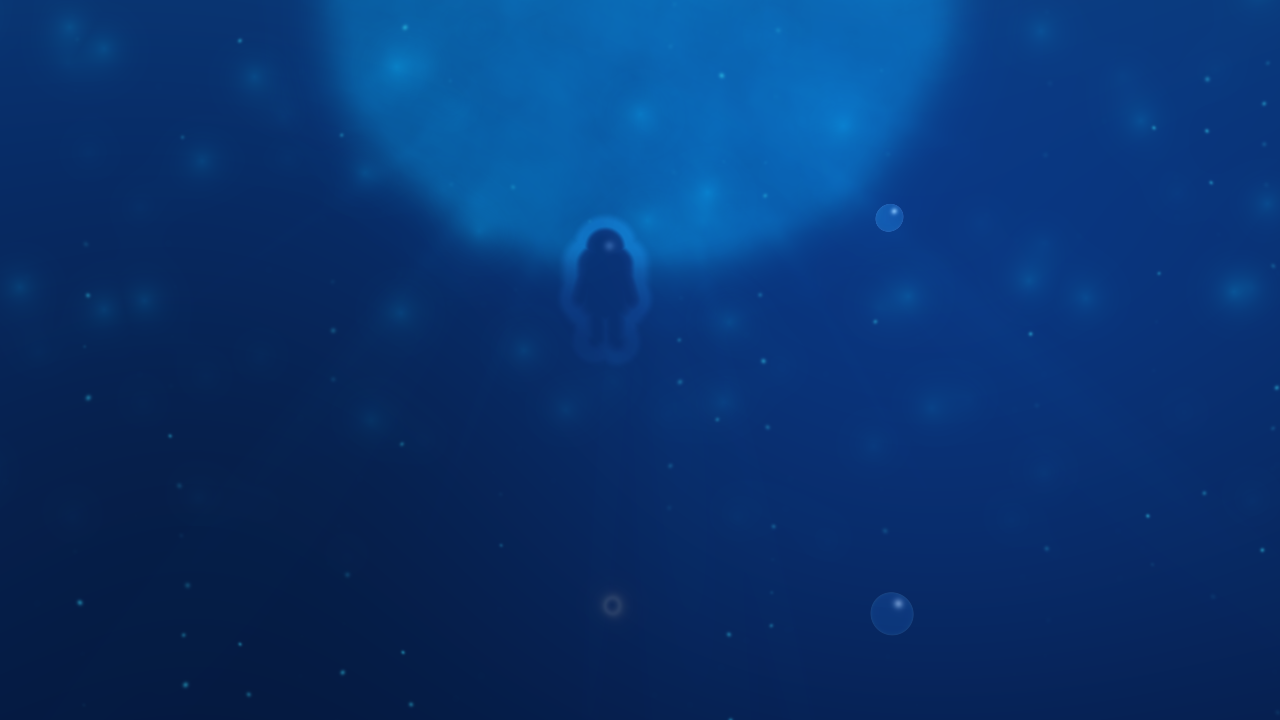
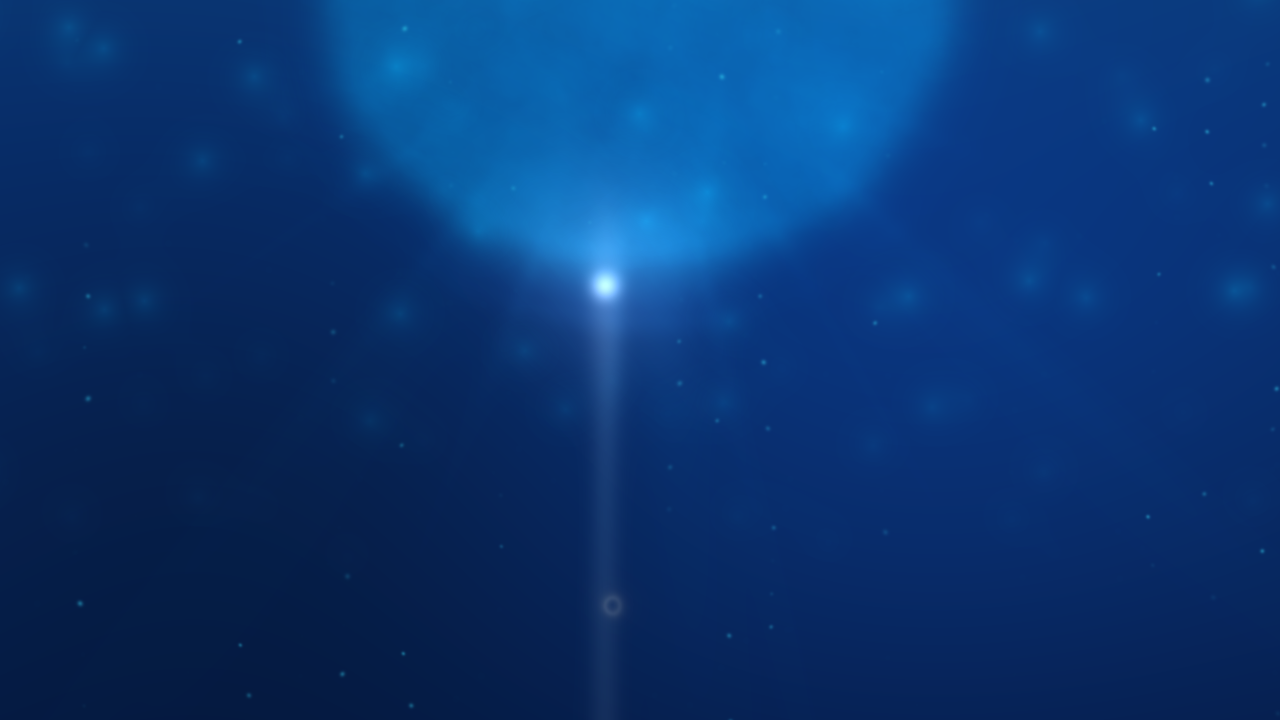
le-mystere-abyssal: diver as abstract falling light; bubbles by music moment
The diver (Louis 2026-06-15: a figure will never look right — keep her
abstract, the main point of attention):
- light-shaft: the scaphandrier SDF is gone. She is now a luminous
  warm-white falling spark — intense core, soft halo, a wake rising to
  where she came from, flickering as her trace is lost (95-99s). Warm-
  white foreshadows the sun she will 'find under the water'. The radio
  thread meets the spark. It is the brightest thing in the descent.

The bubbles, now drawn in the lab's winning vocabularies, chosen so each
LANDS with its moment:
- pointillist fizz (#12) — the literal rising bubbles 'qui rejoignaient
  la surface': white vocal-stem sparks, coloured only by hope; keeps
  vents + breath plume. Used in descent / reversal / remembrance / outro.
- soap-film iridescence (#2) — the B3 narcosis dream: vibrant parallax
  pearls, per-bubble film character, light-following glint, the sun
  bending through them (keeps the u_below coupling edge).
- merging metaballs (#7) — the C3 sun bloom: vibrant blobs wheeling the
  sun, colours fusing where they merge (Ocean Gravity).
Section-boundary vocabulary switches double as prediction-probe variety.

Changed region(s): [[0.4062, 0.2444, 0.5625, 0.5806], [0.6562, 0.825, 0.7188, 0.8861], [0.6875, 0.275, 0.7188, 0.3361]]

diff --git a/brainstorming/pieces/le-mystere-abyssal.md b/brainstorming/pieces/le-mystere-abyssal.md
@@ -80,10 +80,12 @@ Palette anchors (lit, not printed; Reinhard at composite):
 2. **caustics-veil** (screen) — voronoi-filament caustics; gain fades with
    depth; axis rotates with u_bar_phase; doubles as A-stage surface glitter.
    Cursor: local agitation brightens filaments.
-3. **light-shaft** (add) — Snell disc + god rays + the scaphandrier (hard-hat
-   suit SDF: helmet/torso/arms/boots, limbs on slow clocks, helmet glint) +
-   radio-thread meeting the helmet. Rays bend toward cursor. Dims with depth,
-   dies in B4; steps back when sunPresence rises.
+3. **light-shaft** (add) — Snell disc + god rays + **the falling light** (the
+   diver kept ABSTRACT, not a figure: a luminous warm-white spark descending —
+   intense core, soft halo, a wake rising to where she came from; flickers as
+   her trace is lost ~95-99s; the main point of attention) + radio-thread
+   meeting the spark. Dims with depth, dies in B4; steps back when
+   sunPresence rises.
 4. **sun-bloom** (add) — the warm radial glow below: saturated gold body with
    a tiny white-hot heart. Faint star B1/B2, nearer B3, floods C3 (with
    upward rays), sinks through D. Held-key sum feeds gain (+limit). Bypasses
@@ -91,12 +93,17 @@ Palette anchors (lit, not printed; Reinhard at composite):
 5. **narcosis** (screen) — chorus-2 only: the five-fold interference dream,
    deep-blue troughs / pale-gold crest seams, breathing with the band stem,
    bending around the cursor.
-6. **bubbles** (normal, reads u_below) — GLASS: each bubble refracts the
-   composite beneath it (lens bend, fresnel rim, mirrored glint); perfect
-   circles; emission gated by **u_audio_vocals_stem** (her voice = bubbles)
-   from B2 on, arriving in per-column trains; keyboard = bubble burst at key
-   x (white aqua / black violet); cursor deflects columns; gold rims on
-   choruses 2/3; slow large orbs in the dream; wheels around the sun in C3.
+6. **bubbles** (screen, reads u_below) — her voice rising, rendered in three
+   vocabularies chosen by the music moment (from the bubbles lab):
+   - **pointillist fizz** (#12) for the literal rising-bubbles moments
+     (descent / reversal / remembrance / outro): white sparks gated by
+     **u_audio_vocals_stem**, coloured only by the hope curve; keeps keyboard
+     vents + her breath-plume above the falling light.
+   - **soap-film iridescence** (#2) for the B3 narcosis dream: parallax pearls
+     with per-bubble film character + a light-following glint; the sun glimmer
+     bends through them (u_below coupling).
+   - **merging metaballs** (#7) for the C3 sun bloom: vibrant blobs wheeling
+     around the sun, colours mixing where they fuse.
 7. **deep-life** (screen) — marine snow (direction flips at C1 reversal,
    streaking vertically there — the rising rush), dinoflagellate sparkle
    around cursor motion (in B4: touch is the only light), lure-light at B4,